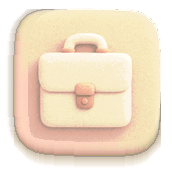
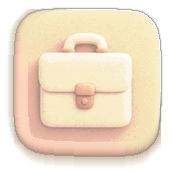
气球/公文包 tile 清掉残留的上/右「洗白硬边」(v16 补完):用户指出这两枚还叠着旧阴影处理,查实无误——v16 上一轮只重写了左/下两条影带,而上 6 行、右 6 列与 v13 基底**逐字节完全相同**,即 917a570 修黑晕边时「把 body 外 AA 环整体混向页面白」的那圈洗白硬边原封不动留着。
后果:参考稿的上/右是「黏土色按 (1-alpha) 渐隐进页面」(star/mbti 上缘 alpha≈248/211/122/59、右缘≈232/165/77/30,约 3~4px);而这两枚在最外一行直接跳到页面白(fun 右缘 d2 已是 (253,249,243)),合到异色卡面上就是一圈突兀的浅色描边。

v16 补做:
① 上/右 alpha 斜坡——对轮廓掩膜做高斯(σ=1.1),得到连续过渡,天然抗锯齿。不能用距离查表:原分辨率的距离在斜边/圆角上是阶梯状的,铺出来是一圈锯齿。
② 上/右边缘颜色——用**归一化卷积**(加权高斯 ÷ 权重高斯)把本体色平滑外扩。先前逐次 4 邻域传播取到的是「最近本体像素」,沿阶梯状掩膜随之阶梯化,同样是锯齿来源。
③ 覆盖范围收在 zone_f(上/右、非左/下的外侧像素),本体像素不受影响。

实测:上缘 d1 由「alpha 143/暗 8.7」变为「alpha 82/暗 80.2」、右缘 d1 由「alpha 0」变为「alpha 19」,断面与参考同形;下/左影带与本体近缘明暗不受影响(下缘 d1 仍 94.0)。TinyPNG 落包 10.7KB/12.2KB。

tileShadow.test.ts 的「上/右应干净」断言改成「上/右应为黏土软收边」:影必须集中在下/左(上<下缘×0.9、右<下缘×0.35),且上/右最外一行必须是半透明本体色(上缘 alpha 在 40~200、右缘 >8 且随距离收窄);旧实现右缘 alpha=0、上缘仅 18,这条会直接报错(已反向验证)。467 测试全过(一次并行超时抖动,重跑稳定通过);清缓存重编译 + devtools 实机验收:测试条 MBTI/气球/爱心三枚同屏,左缘下缘影厚一致、上右收边同款。

Changed region(s): [[0.2907, 0.0291, 0.9302, 0.2326], [0.9302, 0.2326, 0.9593, 0.6105]]

diff --git a/miniapp/src/config/tileShadow.test.ts b/miniapp/src/config/tileShadow.test.ts
@@ -73,18 +73,18 @@ describe('测试条 tile 左+下方向性接触影', () => {
     ['src/assets/illus/tile-fun-v16.png', BOX],
     ['src/assets/illus/tile-career-v16.png', BOX_CAREER],
   ] as [string, [number, number, number, number]][]) {
-    it(`${rel.split('/').pop()} 左/下有厚影，上/右干净`, () => {
+    it(`${rel.split('/').pop()} 左/下有厚影，上/右为黏土软收边`, () => {
       const img = decode(rel)
       const [x0, y0, x1, y1] = box
       const xa = x0 + Math.floor((x1 - x0) / 4)
       const xb = x1 - Math.floor((x1 - x0) / 4)
       const ya = y0 + Math.floor((y1 - y0) / 4)
       const yb = y1 - Math.floor((y1 - y0) / 4)
-      /* 方向：上/右干净，左/下有影 */
-      expect(bandMean(img, 'top', box, 3), '上缘应干净').toBeLessThan(4)
-      expect(bandMean(img, 'right', box, 3), '右缘应干净').toBeLessThan(4)
+      /* 方向：影集中在下/左（上/右只允许一圈很短的软收边，不该有落影） */
       expect(bandMean(img, 'bottom', box, 6), '下缘影带厚度').toBeGreaterThan(36)
       expect(bandMean(img, 'left', box, 4), '左缘影带厚度').toBeGreaterThan(40)
+      expect(bandMean(img, 'top', box, 3), '上缘不应有落影').toBeLessThan(bandMean(img, 'bottom', box, 6) * 0.9)
+      expect(bandMean(img, 'right', box, 3), '右缘不应有落影').toBeLessThan(bandMean(img, 'bottom', box, 6) * 0.35)
       /* 厚度：紧贴实体的接触核心必须够厚。取边缘带上的最大值，避开逐列 1~2px 起伏
          （v14 丢核心时整条下缘首格都只有 ~52、左缘 ~44）。 */
       const coreBottom = Math.max(...Array.from({ length: xb - xa + 1 }, (_, i) => dark(img, xa + i, y1)))
@@ -105,6 +105,21 @@ describe('测试条 tile 左+下方向性接触影', () => {
       expect(a10, '影带 d10 应已开始淡出').toBeLessThan(250)
       expect(a11, '影带 d11 应比 d10 更淡').toBeLessThan(a10)
       expect(a12, '影带 d12 应接近收尾').toBeLessThan(120)
+
+      /* 上缘/右缘必须是「黏土色软收边」，不是 v13 那种把边缘洗白的硬边。
+         判据：上缘最外一行应是半透明的本体色（有 alpha 但明显透过页面），
+         且随距离快速收窄；旧实现上缘 alpha 会直接跳到 0（右缘）或只剩 18（上缘）。 */
+      const edgeAt = (side: 'top' | 'right', d: number) => {
+        const vals: number[] = []
+        if (side === 'top') for (let x = xa; x <= xb; x += 1) vals.push(img.alpha[(y0 - d) * img.width + x])
+        else for (let y = ya; y <= yb; y += 1) vals.push(img.alpha[y * img.width + x1 + d])
+        return vals.reduce((s, v) => s + v, 0) / vals.length
+      }
+      expect(edgeAt('top', 1), '上缘第 1 行应是半透明黏土收边').toBeGreaterThan(40)
+      expect(edgeAt('top', 1), '上缘收边不应是不透明实块').toBeLessThan(200)
+      expect(edgeAt('top', 3), '上缘收边应很快收窄').toBeLessThan(edgeAt('top', 1))
+      expect(edgeAt('right', 1), '右缘第 1 列应是半透明黏土收边').toBeGreaterThan(8)
+      expect(edgeAt('right', 1), '右缘收边不应是不透明实块').toBeLessThan(200)
     })
   }
 

diff --git a/miniapp/art/ref-pages-v3/fix-tile-shadow-v16.py b/miniapp/art/ref-pages-v3/fix-tile-shadow-v16.py
@@ -21,7 +21,7 @@ import os
 import subprocess
 
 import numpy as np
-from PIL import Image
+from PIL import Image, ImageFilter
 
 HERE = os.path.dirname(os.path.abspath(__file__))
 SRC = os.path.join(HERE, 'base')          # v13 基底（从 git 取，一次性）
@@ -58,6 +58,9 @@ LEFT_ALPHA = np.array([255, 255, 255, 255, 255, 230, 120,
                        62, 30, 12, 5, 2, 0, 0], dtype=float)
 # 影色通道权重（由参考影核 (165,156,145) 相对页面推得）
 CH = np.array([0.947, 1.000, 1.053])
+# 上缘/右缘的软收边：参考实测 star/mbti 上缘 alpha 约 248/211/122/59、右缘约 232/165/77/30，
+# 即「本体色→页面白」在 3~4px 内过渡。v13 把这圈混成近白硬边，必须重做。
+FEATHER_SIGMA = 1.1      # 上/右软收边的模糊半径（参考实测过渡约 3~4px）
 
 
 def _ensure_base():
@@ -118,6 +121,8 @@ def _dist_outside(mask, limit=40):
     return _bfs_from_boundary(~mask, mask, limit)
 
 
+
+
 def _table(arr, d):
     return arr[np.clip(d - 1, 0, len(arr) - 1)] if arr.ndim == 1 else arr[np.clip(d - 1, 0, len(arr) - 1)]
 
@@ -163,24 +168,65 @@ def fix_tile(name, out_name):
     target_lum = l_face * mult
     rgb = np.clip(rgb + np.where(rim, target_lum - lum, 0.0)[..., None], 0, 255)
 
-    # ---- ② 外侧接触带：下缘用参考 band 表，左缘用更窄的 LEFT 表 ----
+    # ---- ② 外侧：下缘/左缘铺接触带；上缘/右缘重做软收边 ----
+    # v13 修黑晕边时把 body 外的 AA 环整体混向了页面白，形成一圈「洗白的硬边」。
+    # 参考稿上/右是「本体色按 (1-alpha) 渐隐进页面」约 3~4px，故这两侧也要重做：
+    # 取该像素最近的本体色，套参考实测 alpha 表。
     out = ~body
     below = (col_bottom[None, :] >= 0) & (yy > col_bottom[None, :])
     lefter = (row_left[:, None] >= 0) & (xx < row_left[:, None])
 
+    # 本体色外扩（供 feather 取色）：逐次把已知颜色向 4 邻域未定像素传播
+    bled = rgb.copy()
+    known = body.copy()
+    for _ in range(6):
+        if known.all():
+            break
+        acc = np.zeros_like(bled)
+        cnt = np.zeros(known.shape, dtype=float)
+        for dy, dx in ((1, 0), (-1, 0), (0, 1), (0, -1)):
+            sk = np.roll(known, (dy, dx), axis=(0, 1))
+            so = np.roll(bled, (dy, dx), axis=(0, 1))
+            acc[sk] += so[sk]
+            cnt[sk] += 1
+        have = (~known) & (cnt > 0)
+        bled[have] = acc[have] / cnt[have, None]
+        known = known | have
+
     ds = np.clip(d_out.astype(int), 1, len(BAND_RGB))
     b_rgb = BAND_RGB[ds - 1]
-    # 超出表长即带宽用尽，alpha 记 0（表尾本就是 3，视觉等同收敛）
     b_a = np.where(d_out <= len(BAND_ALPHA), BAND_ALPHA[ds - 1], 0.0)
     s = np.clip(d_out.astype(int), 1, len(LEFT_DARK))
-    l_rgb = PAGE[None, None, :] - LEFT_DARK[s - 1][..., None] * CH[None, None, :]
+    l_rgb = np.clip(PAGE[None, None, :] - LEFT_DARK[s - 1][..., None] * CH[None, None, :], 0, 255)
     l_a = np.where(d_out <= len(LEFT_ALPHA), LEFT_ALPHA[s - 1], 0.0)
 
     zone_b = out & below
     zone_l = out & lefter & ~below
+    # 上缘/右缘（含圆角）不铺接触带，但要重做 v13 留下的「洗白硬边」：取最近的本体色，
+    # 按一段平滑 alpha 斜坡化进页面。斜坡用**对轮廓掩膜做高斯**得到——直接拿阶梯状的
+    # 距离查表会在斜边/圆角上留下锯齿；二值掩膜模糊后是连续过渡，天然抗锯齿。
+    # 上缘/右缘（含圆角）不铺接触带，但要重做 v13 留下的「洗白硬边」：
+    #   ① alpha 斜坡：对轮廓掩膜做高斯 → 连续过渡，天然抗锯齿；
+    #   ② 边缘颜色：用**归一化卷积**把本体色平滑外扩。逐次 4 邻域传播（bled）会沿阶梯状
+    #      掩膜取到「最近的本体像素」，斜边上颜色随之阶梯化，合成后就是一圈锯齿；
+    #      归一化卷积（加权高斯/权重高斯）得到的是连续外扩，边缘干净。
+    zone_f = out & ~below & ~lefter
+    f_a = np.asarray(Image.fromarray((body * 255).astype('uint8'), 'L')
+                     .filter(ImageFilter.GaussianBlur(FEATHER_SIGMA)), dtype=float)
+    w = body.astype(float)
+    den = np.asarray(Image.fromarray((w * 255).astype('uint8'), 'L')
+                     .filter(ImageFilter.GaussianBlur(FEATHER_SIGMA)), dtype=float) / 255.0
+    ext = np.zeros_like(rgb)
+    for c in range(3):
+        num = np.asarray(Image.fromarray((rgb[..., c] * w).astype('uint8'), 'L')
+                         .filter(ImageFilter.GaussianBlur(FEATHER_SIGMA)), dtype=float)
+        ext[..., c] = num / np.maximum(den * 255.0, 1e-3)
+    edge_rgb = np.clip(ext, 0, 255)
     out_rgb = np.where(zone_b[..., None], b_rgb,
-                       np.where(zone_l[..., None], np.clip(l_rgb, 0, 255), rgb))
-    out_a = np.where(zone_b, b_a, np.where(zone_l, l_a, A))
+                       np.where(zone_l[..., None], l_rgb,
+                                np.where(zone_f[..., None], edge_rgb, rgb)))
+    out_a = np.where(zone_b, b_a, np.where(zone_l, l_a,
+                    np.where(zone_f, f_a, A)))
 
     res = Image.fromarray(np.dstack([out_rgb, out_a]).clip(0, 255).astype('uint8'), 'RGBA')
     res.save(os.path.join(PREP, out_name))
